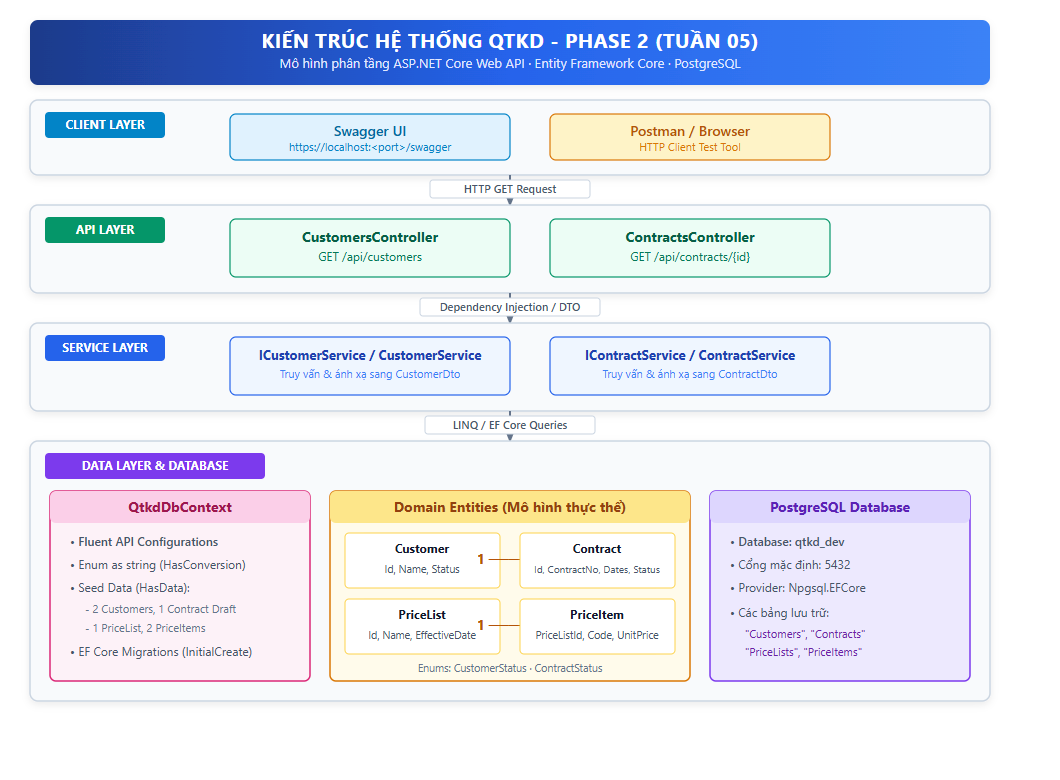
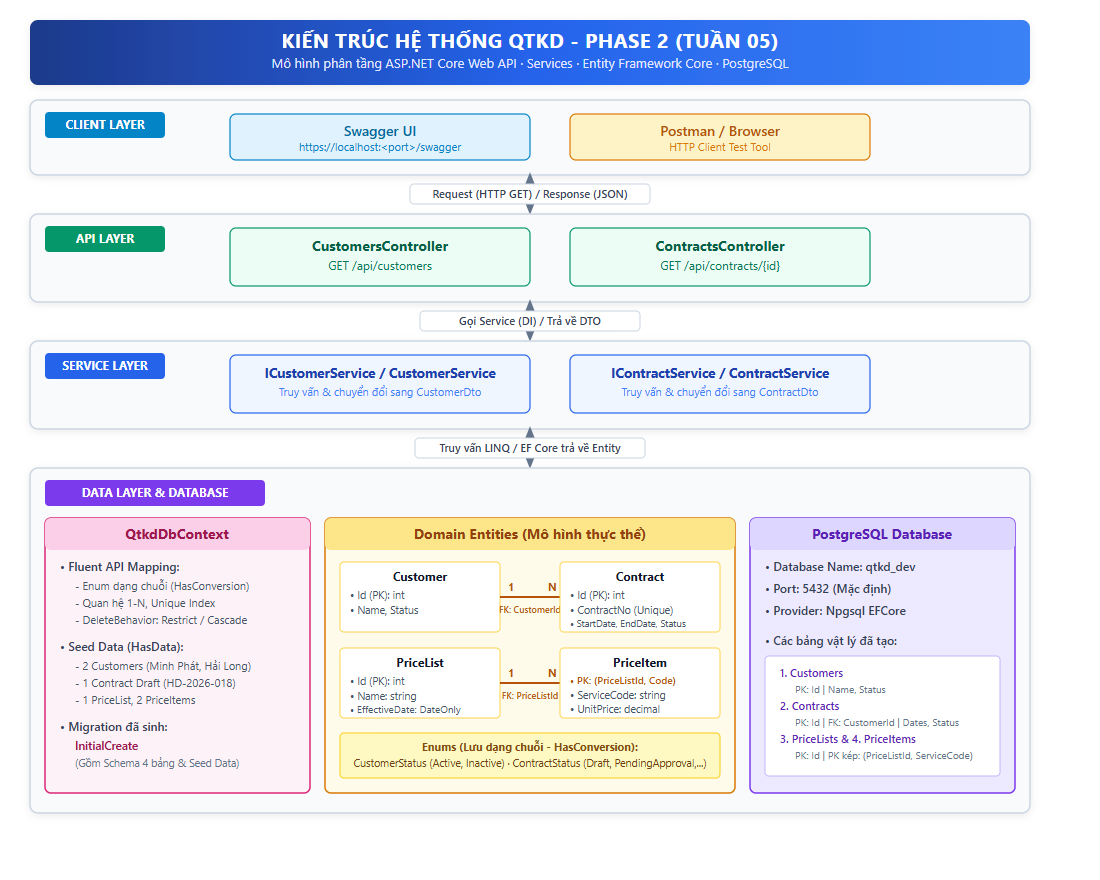
docs: enhance architecture diagram with bidirectional flow, exact relationships and entity keys

Changed region(s): [[0.0311, 0.0, 0.934, 0.9231]]

diff --git a/docs/architecture.md b/docs/architecture.md
@@ -4,25 +4,44 @@
 
 ```mermaid
 graph TD
-    Client["Client (Swagger UI / Postman / Browser)"] -->|"HTTP GET /api/customers<br/>HTTP GET /api/contracts/{id}"| Controllers["Tầng API (Controllers)<br/>CustomersController<br/>ContractsController"]
-    Controllers -->|"Gọi qua Interface DTO"| Services["Tầng Nghiệp vụ (Services)<br/>ICustomerService / CustomerService<br/>IContractService / ContractService"]
-    Services -->|"Truy vấn Linq / EF Core"| DbContext["Tầng Truy cập Dữ liệu (Data Access)<br/>QtkdDbContext"]
-    DbContext -->|"Npgsql Provider"| Postgres[("Cơ sở dữ liệu PostgreSQL<br/>qtkd_dev")]
+    Client["Client Layer<br/>(Swagger UI / Postman / Browser)"] <-->|"Request (HTTP GET)<br/>Response (JSON)"| Controllers["API Layer (Controllers)<br/>CustomersController: GET /api/customers<br/>ContractsController: GET /api/contracts/{id}"]
+    
+    Controllers <-->|"Gọi Service (DI)<br/>Trả về DTO"| Services["Service Layer (Nghiệp vụ)<br/>ICustomerService / CustomerService<br/>IContractService / ContractService"]
+    
+    Services <-->|"Truy vấn LINQ / EF Core<br/>Trả về Entity"| DbContext["Data Access Layer<br/>QtkdDbContext"]
+    
+    DbContext <-->|"Npgsql Provider (Cổng 5432)"| Postgres[("PostgreSQL Database<br/>Database: qtkd_dev")]
 
-    subgraph "Entities & Relationships"
-        Customer["Customer<br/>- Id (PK)<br/>- Name<br/>- Status"]
-        Contract["Contract<br/>- Id (PK)<br/>- ContractNo (Unique)<br/>- CustomerId (FK)<br/>- StartDate (nullable)<br/>- EndDate (nullable)<br/>- Status"]
-        PriceList["PriceList<br/>- Id (PK)<br/>- Name<br/>- EffectiveDate"]
-        PriceItem["PriceItem<br/>- PriceListId (PK, FK)<br/>- ServiceCode (PK)<br/>- UnitPrice"]
+    subgraph "Mô hình thực thể & Quan hệ (Domain Entities)"
+        Customer["Customer<br/>• Id (PK)<br/>• Name<br/>• Status"]
+        Contract["Contract<br/>• Id (PK)<br/>• ContractNo (Unique)<br/>• CustomerId (FK)<br/>• StartDate, EndDate (nullable)<br/>• Status"]
+        PriceList["PriceList<br/>• Id (PK)<br/>• Name<br/>• EffectiveDate"]
+        PriceItem["PriceItem<br/>• PK kép: (PriceListId, ServiceCode)<br/>• PriceListId (FK)<br/>• ServiceCode<br/>• UnitPrice"]
 
-        Customer -->|"1 - N (Restrict)"| Contract
-        PriceList -->|"1 - N (Cascade)"| PriceItem
+        Customer ---|"1 ────────── N<br/>(FK: CustomerId)"| Contract
+        PriceList ---|"1 ────────── N<br/>(FK: PriceListId)"| PriceItem
     end
 ```
 
-## 2. Mô tả các thành phần chính
-1. **API Layer (`src/QTKD.Api/Controllers`)**: Tiếp nhận request HTTP, điều hướng, trả về HTTP Status Code và DTO tương ứng.
-2. **Business/Service Layer (`src/QTKD.Api/Services`)**: Đảm nhiệm xử lý nghiệp vụ, chuyển đổi Entity sang DTO để tránh lộ thực thể nội bộ và chống lỗi vòng lặp JSON (Object cycle). Sẵn sàng mở rộng cho các quy tắc CTR-01, CTR-02, CTR-03 ở Tuần 06.
-3. **Data Access Layer (`src/QTKD.Api/Data`)**: Quản lý DbContext, ánh xạ Fluent API, thiết lập quan hệ bảng, chuyển đổi Enum sang chuỗi và quản lý seed data.
-4. **Entities (`src/QTKD.Api/Entities`)**: Định nghĩa các thực thể cốt lõi theo thiết kế Phase 1 (`Customer`, `Contract`, `PriceList`, `PriceItem`).
-5. **DTOs (`src/QTKD.Api/Dtos`)**: Định dạng dữ liệu truyền tải qua API (`CustomerDto`, `ContractDto`).
+## 2. Mô tả chi tiết các thành phần chính
+1. **Client Layer**:
+   * **Swagger UI** (`https://localhost:<port>/swagger`): Công cụ trực quan kiểm thử trực tiếp API.
+   * **Postman / Browser**: Các HTTP client gửi request đọc dữ liệu.
+2. **API Layer (`src/QTKD.Api/Controllers`)**:
+   * `CustomersController`: Cung cấp endpoint `GET /api/customers`, tiêm phụ thuộc `ICustomerService`, trả về `List<CustomerDto>`.
+   * `ContractsController`: Cung cấp endpoint `GET /api/contracts/{id}`, tiêm phụ thuộc `IContractService`, trả về `ContractDto` (hoặc 404 NotFound).
+3. **Service Layer (`src/QTKD.Api/Services`)**:
+   * `ICustomerService / CustomerService`: Tách biệt logic đọc khách hàng và chuyển đổi sang DTO.
+   * `IContractService / ContractService`: Tách biệt logic đọc chi tiết hợp đồng kèm thông tin khách hàng liên kết.
+   * *Mục tiêu:* Đảm bảo phân tầng chuẩn theo đề bài, che giấu cấu trúc DB, tránh lỗi vòng lặp JSON và chuẩn bị sẵn sàng cho các rule CTR-01, CTR-02, CTR-03 ở Tuần 06.
+4. **Data Access Layer (`src/QTKD.Api/Data`)**:
+   * `QtkdDbContext`: Thiết lập cấu hình Fluent API, chuyển đổi Enum sang chuỗi (`HasConversion<string>()`), ràng buộc `Unique Index`, cấu hình hành vi xóa (`Restrict` cho Contract, `Cascade` cho PriceItem).
+   * Seed Data (`HasData`): Khởi tạo 2 Customer (`Công ty Minh Phát`, `Công ty Hải Long`), 1 Contract Draft (`HD-2026-018` thiếu ngày), 1 PriceList và 2 PriceItem.
+   * Migration đã sinh: `20261124131958_InitialCreate.cs` chứa đầy đủ cấu trúc bảng và seed data.
+5. **Domain Entities (`src/QTKD.Api/Entities`)**:
+   * Các thực thể: `Customer`, `Contract`, `PriceList`, `PriceItem`.
+   * Các Enum: `CustomerStatus` (`Active`, `Inactive`), `ContractStatus` (`Draft`, `PendingApproval`, `RevisionRequested`, `Approved`, `Rejected`).
+6. **PostgreSQL Database**:
+   * Database: `qtkd_dev`
+   * Cổng: `5432`
+   * Bảng vật lý: `Customers`, `Contracts`, `PriceLists`, `PriceItems`, `__EFMigrationsHistory`.
